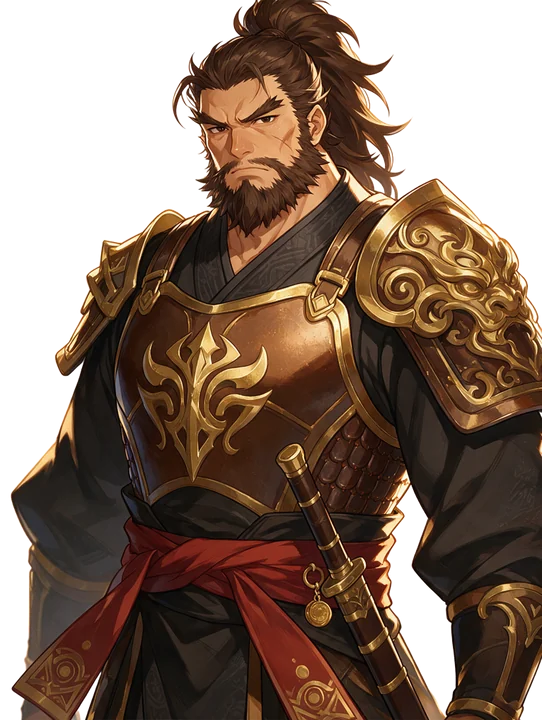
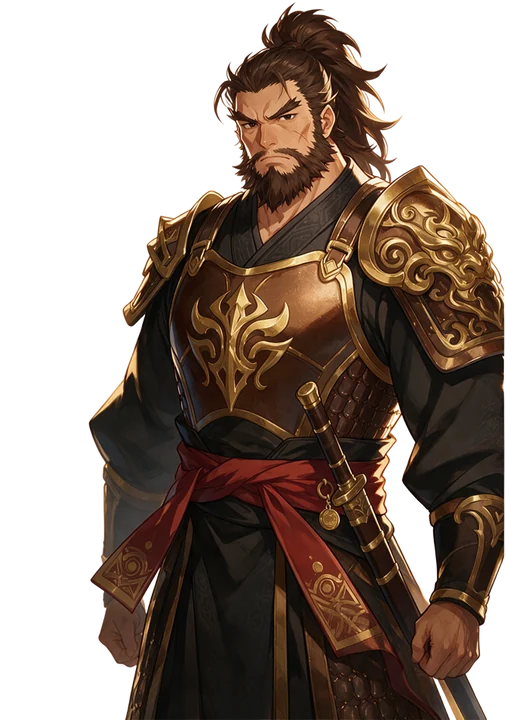
Portraits: Lady Sun and Chen Wu no longer cut off at the top (their topknots): the same art outpainted on a wider canvas, re-cut with the 851 remover (apo110: cropped portraits); PORTRAIT_V bumped
Claude-Session: https://claude.ai/code/session_01CG7crrkzqt1vmaeQ7L7w6w

diff --git a/tk-town.js b/tk-town.js
@@ -196,7 +196,7 @@ const TownArt = {
 /* ---------- DOM overlay: goal, dialogue with portraits and voice ---------- */
 const TownUI = {
   // who -> portrait file (assets/tk/portraits/portraits.json, tools/build_portraits.py), fetched once
-  portraits: {}, PORTRAIT_V: 8,
+  portraits: {}, PORTRAIT_V: 9,
   loadPortraits() {
     if (!this._pp) this._pp = fetch(`assets/tk/portraits/portraits.json?v=${this.PORTRAIT_V}`).then(r => r.ok ? r.json() : {})
       .catch(() => ({})).then(m => { this.portraits = m; for (const f of Object.values(m)) new Image().src = `assets/tk/portraits/${f}?v=${this.PORTRAIT_V}`; });

diff --git a/index.html b/index.html
@@ -25,7 +25,7 @@
 </div>
 <script src="engine/engine-utils.js"></script>
 <script src="tk.js?v=172"></script>
-<script src="tk-town.js?v=47"></script>
+<script src="tk-town.js?v=48"></script>
 <script src="tk-iso.js?v=12"></script>
 <script src="tk-world.js?v=303"></script>
 <script src="tk-items.js?v=10"></script>
